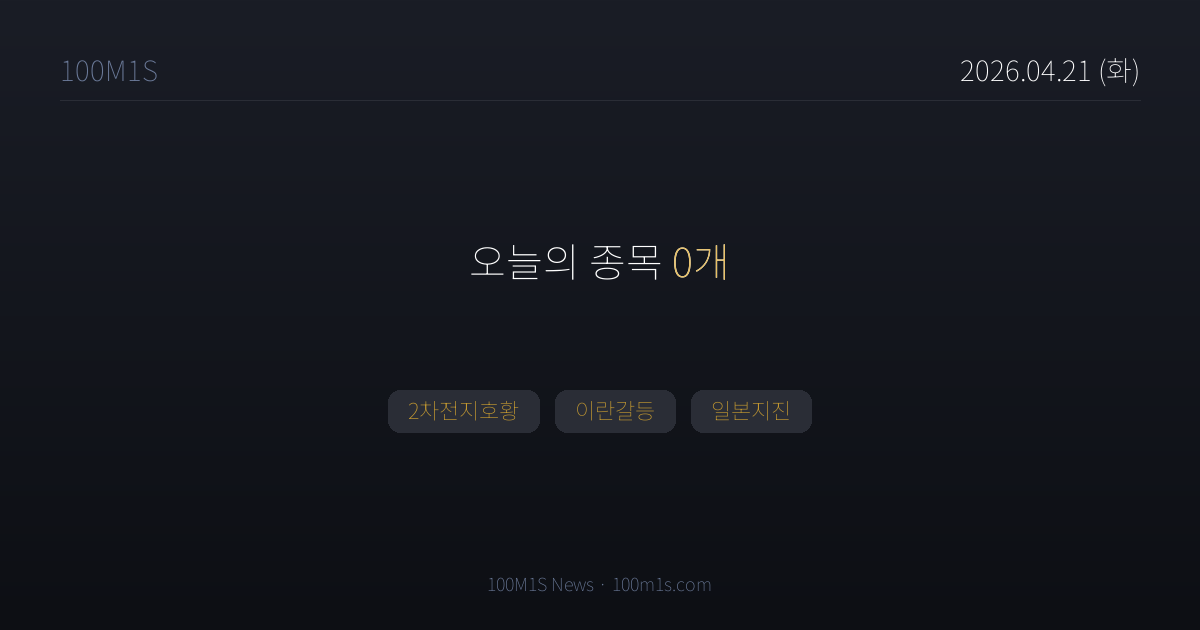
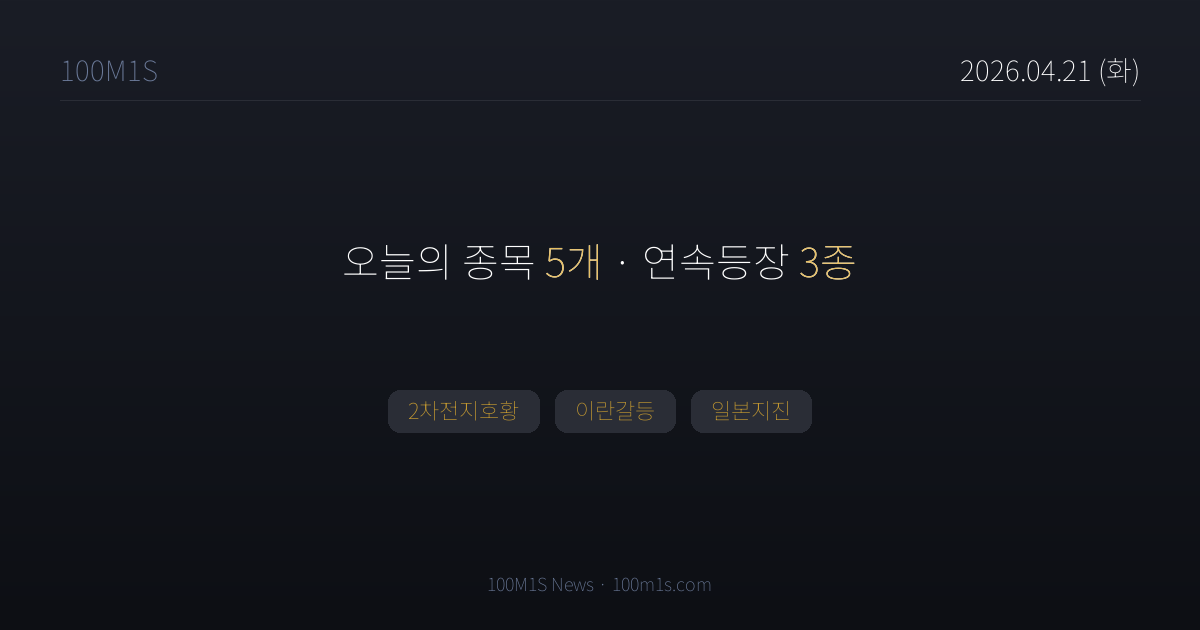
chore(news): 2026-04-21T09:26 pipeline

Changed region(s): [[0.2775, 0.3921, 0.7092, 0.4524]]

diff --git a/news/stock/2026-04-21.html b/news/stock/2026-04-21.html
@@ -3,7 +3,7 @@
 <head>
 <meta charset="UTF-8">
 <title>4월 21일 (화) 뉴스 — 100M1S</title>
-<meta property="og:title" content="4월 21일 (화) · 종목 0개">
+<meta property="og:title" content="4월 21일 (화) · 종목 5개">
 <meta property="og:description" content="2차전지호황, 이란갈등, 일본지진">
 <meta property="og:image" content="https://100m1s.com/og/news/stock/2026-04-21.png">
 <meta property="og:image:width" content="1200">
